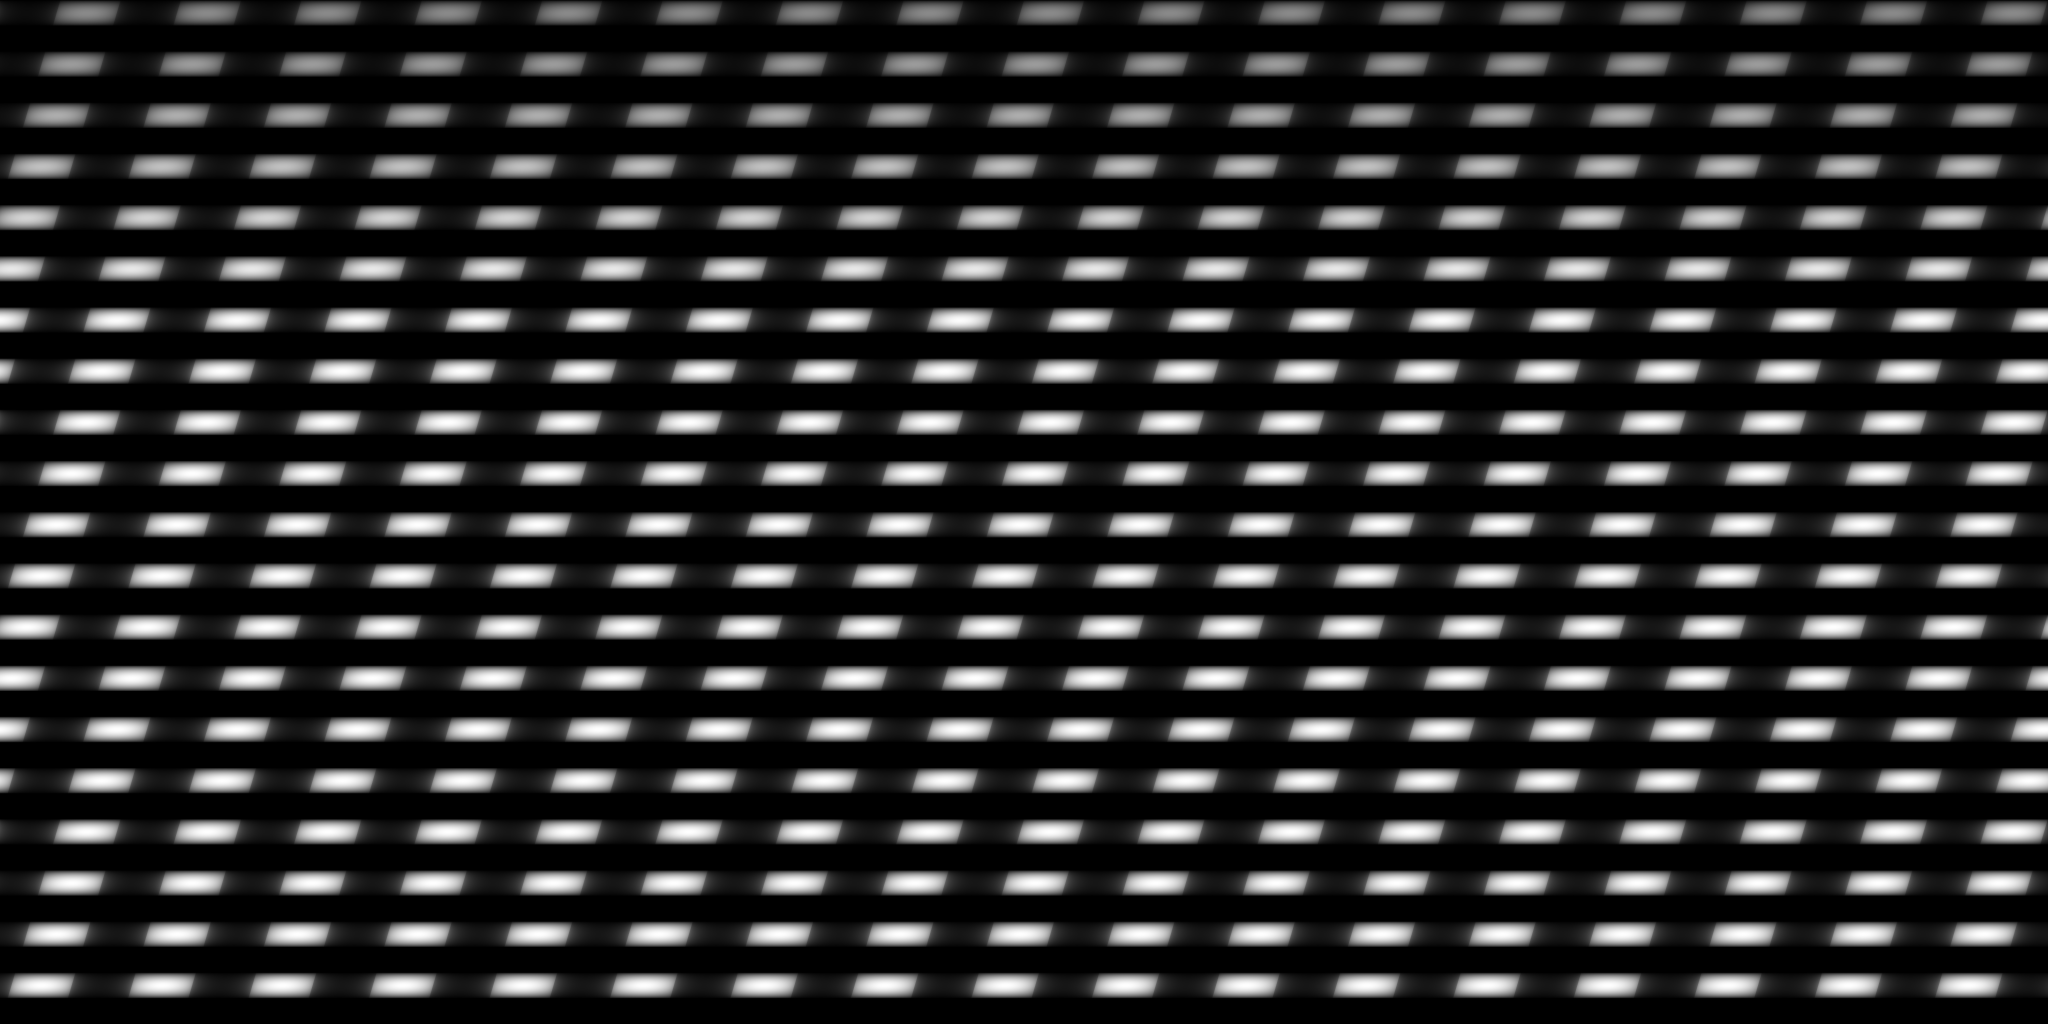
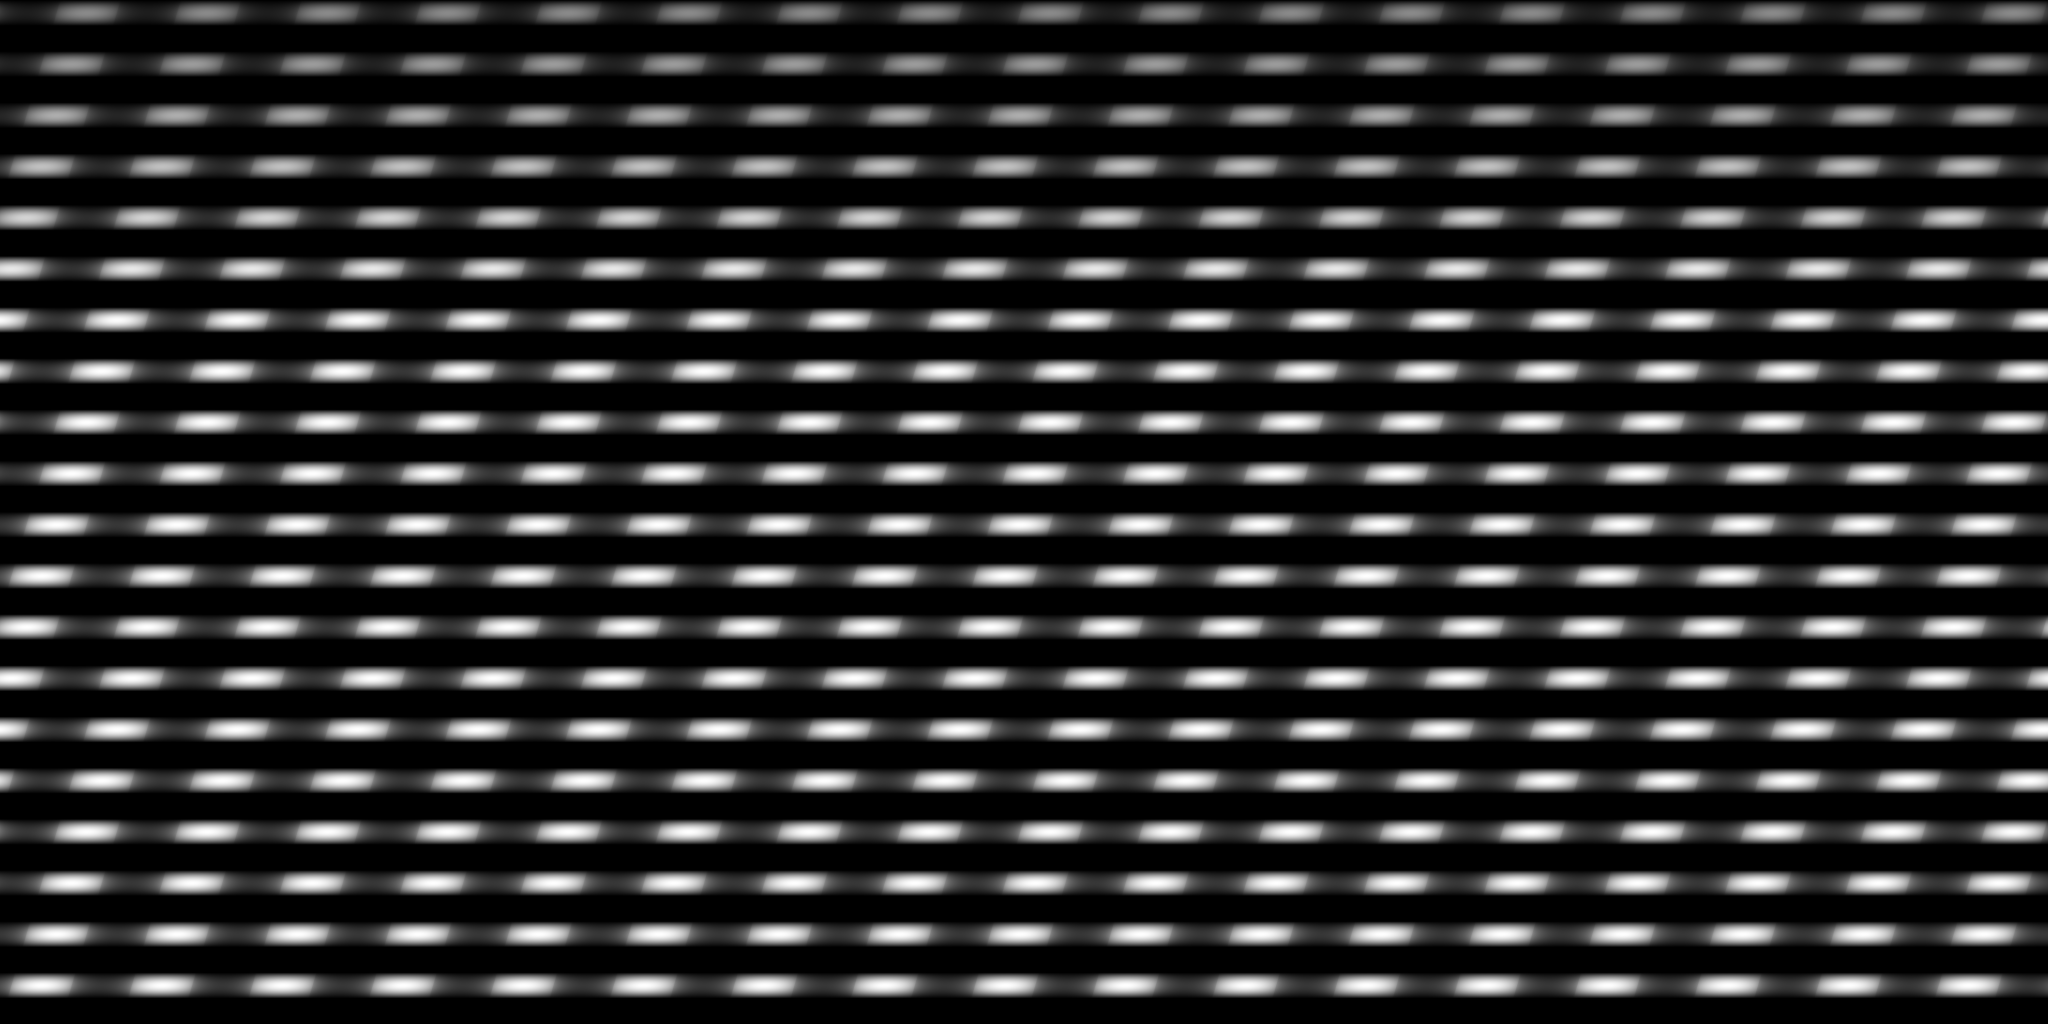
Soften the guilloche contrast: refine 'bold' toward 'elegant'
Isolated the two variables from last cycle's combined change (frequency
+ contrast) by testing them separately: raising FREQ 40->56 alone
reintroduced softness at the same sample count (finer detail needs more
samples to resolve — makes sense, not a mystery this time), so reverted
frequency to the proven-crisp value of 40. Kept the contrast change:
weave2's swing narrowed from 0.6+/-0.4 to 0.68+/-0.32 and the sharpen
exponent eased from 0.42 to 0.6 (still enough for crisp facet edges,
just a gentler light/dark transition between cells).

Tested at 600x600/150 samples: noticeably calmer, still crisp — reads
as refined engine-turning rather than a bold dazzle/basketweave
pattern. Full production render running; render.png follows separately.

diff --git a/art/genesis-3d/make_texture.py b/art/genesis-3d/make_texture.py
@@ -35,11 +35,11 @@ col = np.linspace(-math.pi, math.pi, Ws)[None, :]  # longitude, wraps
 # a V-groove: flat-ish between cuts, a sharp transition at each groove.
 # Reshape both sinusoids toward that (sign-preserving power curve) so the
 # height field actually HAS crisp features for shading to catch.
-def sharpen(s, k=0.42):
+def sharpen(s, k=0.6):
     return np.sign(s) * np.abs(s) ** k
 
 sinring = sharpen(np.sin(row * FREQ))
-weave2 = 0.6 + 0.4 * sharpen(np.sin(col * K + row * CURL))
+weave2 = 0.68 + 0.32 * sharpen(np.sin(col * K + row * CURL))
 weave = sinring * weave2
 # Floor raised from 0.4->0.65: LAT_ENTRY=0.86rad sits inside the
 # density ramp (which caps at row=1.0rad), so a low floor left even the
